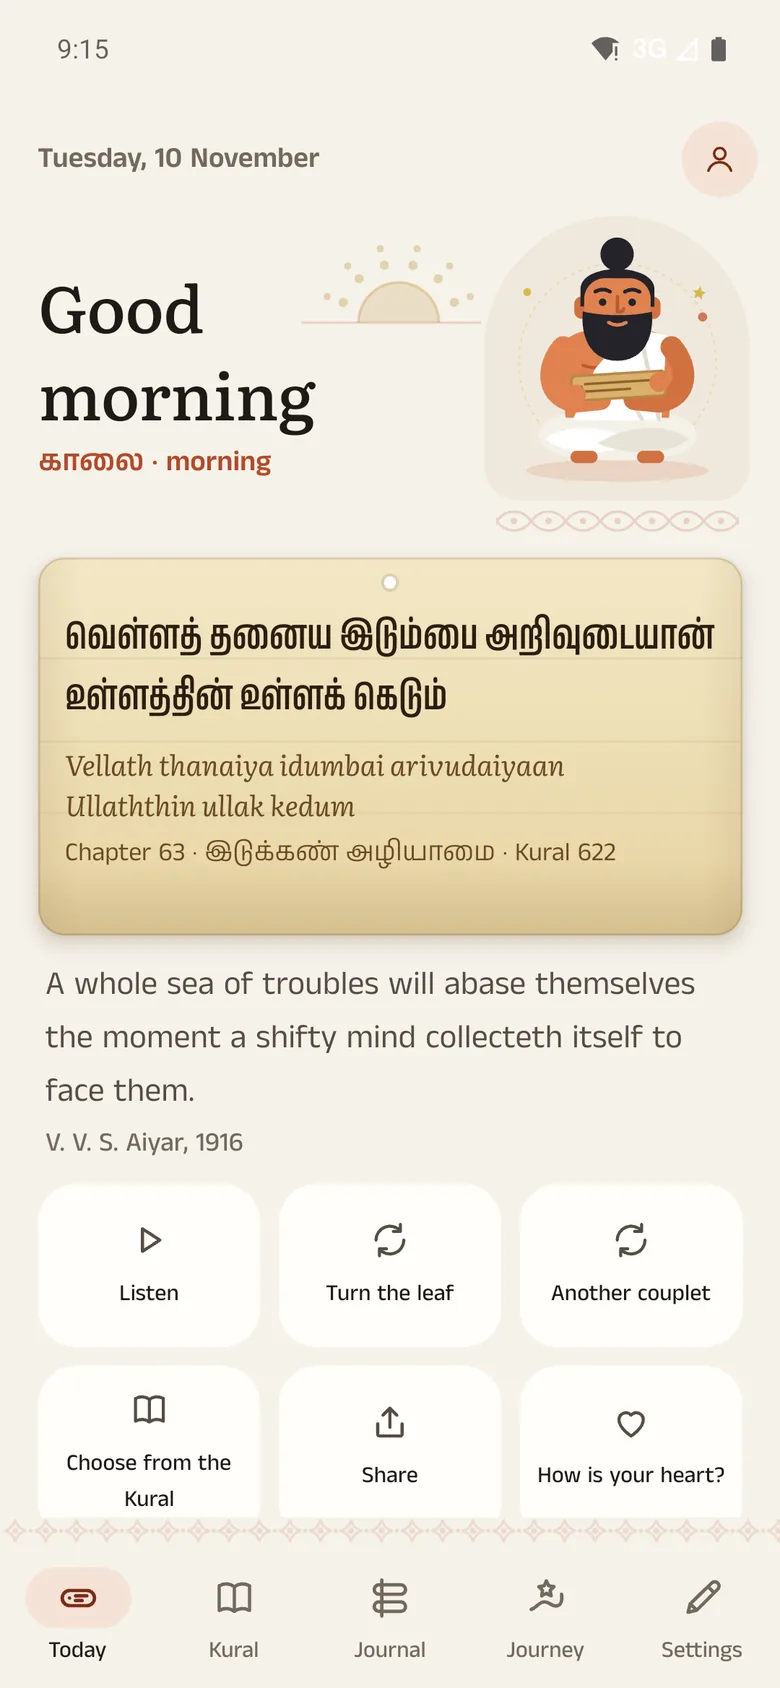
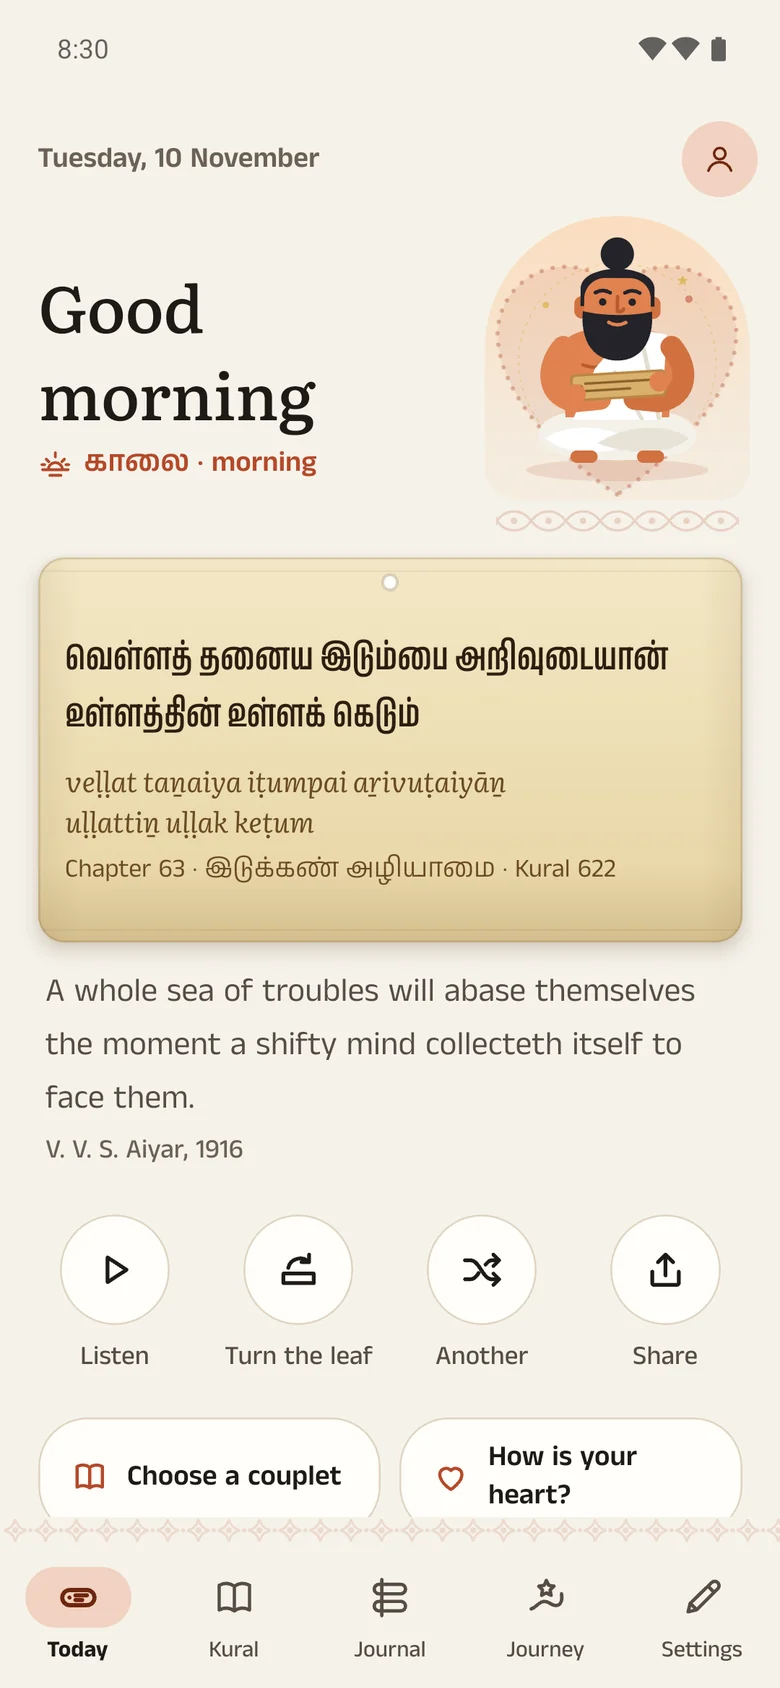
Kural Heart 1.0.3: new screen; Listen line

diff --git a/index.html b/index.html
@@ -88,7 +88,7 @@
         <p class="app-line">A private journal with Thiruvalluvar.</p>
         <ul class="ticks">
           <li>A couplet of the Thirukkural each day, in Tamil and English</li>
-          <li>Listen in a natural Tamil voice, even offline</li>
+          <li>Listen to each couplet, in Tamil and English</li>
           <li>A quiet page to write, kept on your phone</li>
         </ul>
         <p class="actions">
